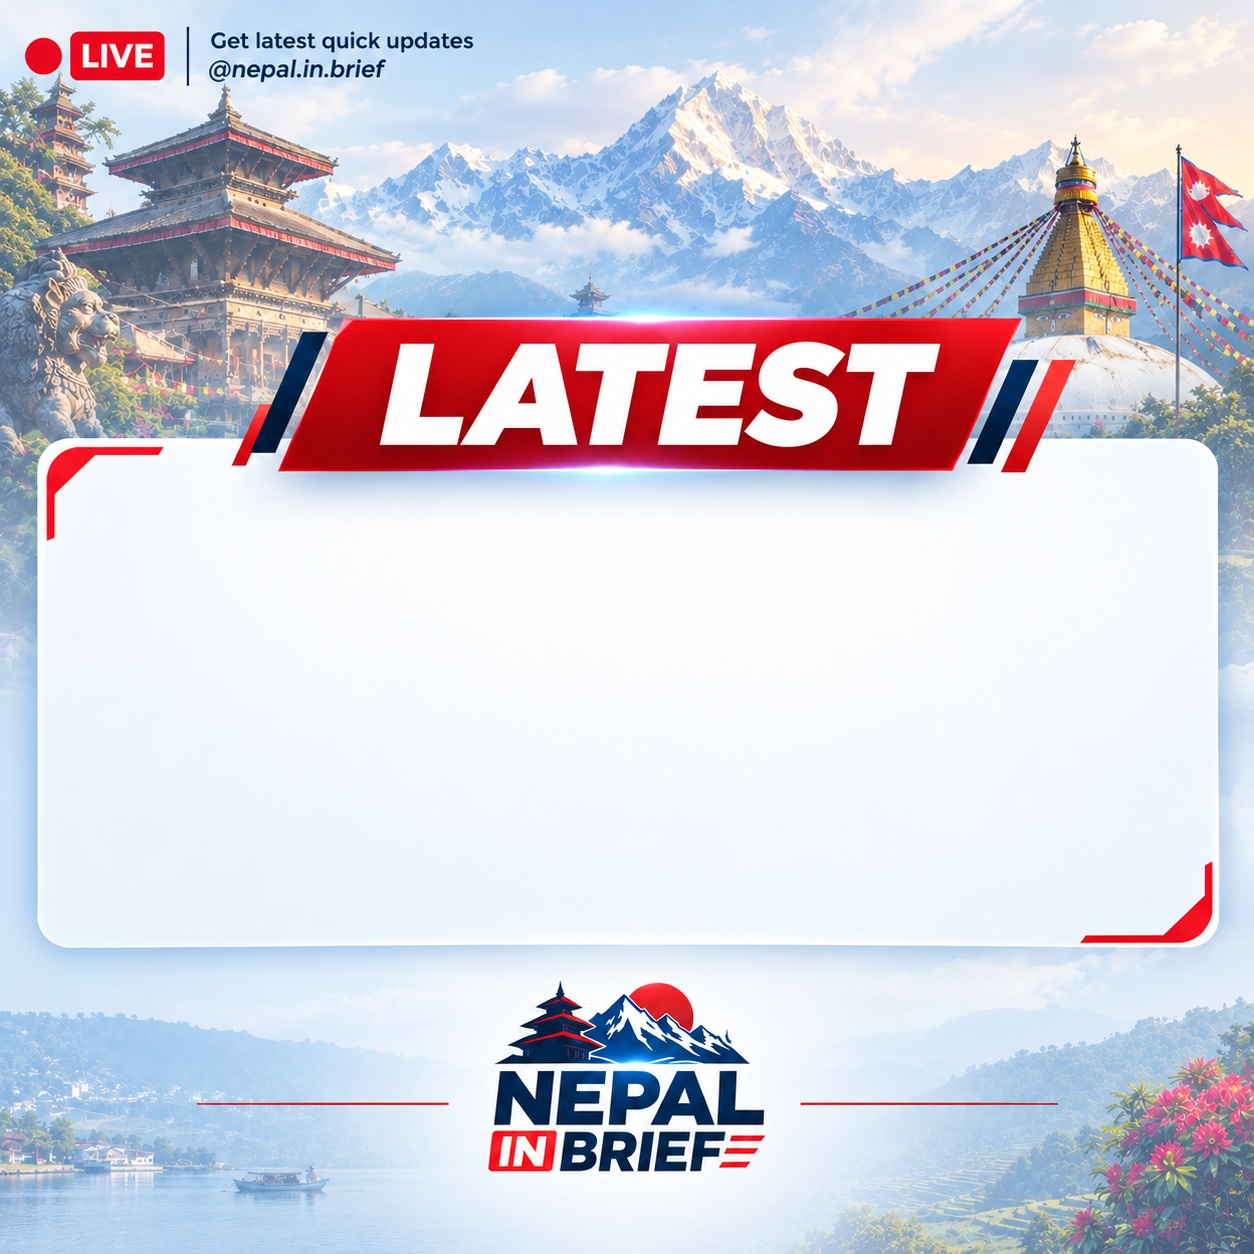
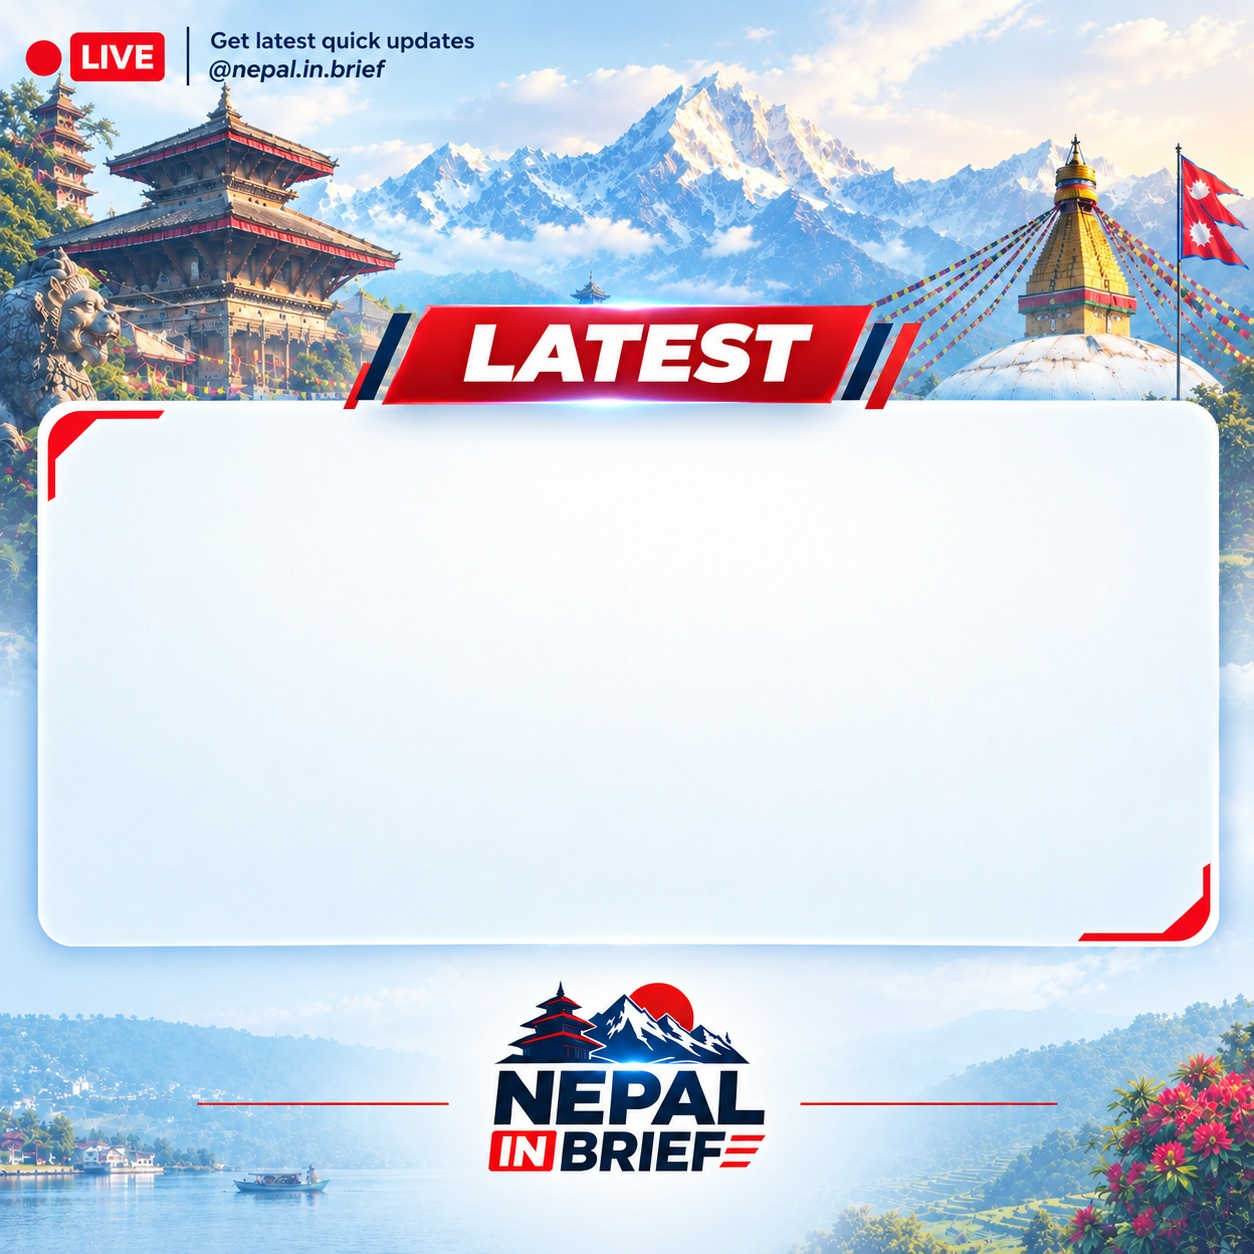
One bilingual post per story (EN above NE) on redesigned templates, dark/white alternate

diff --git a/bot.py b/bot.py
@@ -46,20 +46,19 @@ CRITICAL = re.compile(r"\b(breaking|earthquakes?|quakes?|tremors?|floods?|floode
                       r"blast|curfew|emergency|collapse\w*|defeat\w*|wins?)\b"
                       r"|भूकम्प|बाढी|पहिरो|हिमपहिरो|मृत्यु|मृतक|विस्फोट|कर्फ्यु|संकटकाल|हरायो|जित्यो", re.I)
 URGENT_MAX = 4          # headlines per urgent call
-STORIES_PER_RUN = 1     # normal stories per run (each = 1 EN + 1 NE post); runs every ~10 min
+STORIES_PER_RUN = 1     # normal stories per run (each = 1 bilingual post on FB and on IG); runs every ~10 min
 BREAKING_PER_RUN = 1    # breaking stories skip the pacing and go out immediately, up to this many
 NORMAL_GAP_MIN = 30     # at most one regular (non-breaking) story every 30 minutes
 NORMAL_MIN_IMPACT = 3   # regular stories need AI impact >= 3 (1-5 scale); lower ones are never posted
 RESUME_LEAD_MIN = 45    # when posting is paused, start collecting again this long before it resumes
 MAX_STORIES_PER_RUN = 1 # never more than this many stories in one run (no bursts: Meta flags them as spam)
-POST_GAP_S = 45         # seconds between the EN and NE post of a story
 BLOCK_COOLDOWN_H = 5    # Meta spam block (error 368): stop posting this long, doubled if it happens again within 48h
 BREAKING_PER_HOUR = 3   # hard cap so a busy news day can't turn into a flood of "breaking" posts
 BREAKING_MAX_AGE_MIN = 90  # only fresh stories can count as breaking
 ACTIVE_HOURS   = (4, 23)  # Nepal time: regular news only from 04:00 to 23:00, daily limits spread evenly
 BREAKING_24H   = True     # breaking news may still post at night (uses the IG reserve below)
-IG_BREAKING_RESERVE = 16  # IG posts (16 stories, English only) kept free for breaking news in every rolling 24h
-FB_BREAKING_RESERVE = 12  # FB posts (6 stories) kept free for breaking news
+IG_BREAKING_RESERVE = 8   # IG posts (stories) kept free for breaking news in every rolling 24h
+FB_BREAKING_RESERVE = 8   # FB posts (stories) kept free for breaking news
 # How much of the day's regular budget each hour gets (Nepal time). Follows when Nepali
 # audiences are online: morning scroll 6-9, lunch 12-2, and the big evening peak 6-10 PM.
 HOUR_WEIGHT = {4: 0.3, 5: 0.6, 6: 1.0, 7: 1.3, 8: 1.3, 9: 1.1, 10: 1.1, 11: 1.1, 12: 1.2,
@@ -85,9 +84,8 @@ BREAKING = re.compile(
     r"curfew|resign\w*|arrest\w*|protest\w*|clash\w*|shoot\w*|attack\w*|emergency|alert|"
     # sports results
     r"defeat\w*|wins?)\b", re.I)
-FB_DAILY_CAP   = 100    # FB posts per rolling 24h (no hard API cap, but 116 in a day got the Page spam-blocked)
+FB_DAILY_CAP   = 60     # FB posts (= stories, 1 bilingual post each) per rolling 24h. 116 in a day got the Page spam-blocked
 IG_DAILY_CAP   = 96     # IG API hard limit is 100 per rolling 24h
-IG_LANGS       = ("en",)  # Instagram gets the English version only (1 IG post per story)
 DUP_JACCARD    = 0.5    # word-overlap threshold for local duplicate detection
 INCLUDE_SUMMARY = False  # False: caption = headline + source + link only (no copied article text)
 HASHTAGS_EN    = "#Nepal #NepalNews #NepalInBrief"
@@ -140,31 +138,30 @@ FEEDS = [
 
 # ---- image ----
 HERE      = pathlib.Path(__file__).parent
-TEMPLATE  = HERE / "assets" / "template.jpg"   # branded template (1254x1254); headline goes in the panel
-BOX       = (100, 520, 1054, 400)              # headline area inside the panel: left, top, width, height
-STAMP_Y   = 482                                # centre line of the date pill, just under the LATEST ribbon
-TEXT_RGB  = (255, 255, 255)
-PHOTO_LAYOUT = "background"   # "background" (translucent photo behind the headline) or "off"
-PHOTO_OPACITY = 0.42          # how visible the photo is behind the headline (0 = hidden, 1 = full)
-PHOTO_TOP  = 515              # photo starts below the LATEST ribbon + date pill, fading in over PHOTO_FADE px
-PHOTO_FADE = 70
-TEXT_STROKE = 3               # thin black outline around the white headline
+TEXT_STROKE = 3               # outline around the headline (black on dark, white on the white template)
+PHOTO_LAYOUT = "background"   # "background" (translucent news photo behind the headlines) or "off"
+PHOTO_FADE = 60               # px over which the photo fades in below the date pill
 PHOTO_BLOCKLIST = set()       # outlet names whose photos must never be used, e.g. {"Kathmandu Post"}
-PANEL     = (49, 424, 1205, 954)   # the template's dark panel (where the photo goes)
 FONT_BOLD = [HERE / "assets" / "fonts" / "headline.ttf", "/usr/share/fonts/truetype/dejavu/DejaVuSans-Bold.ttf"]
 NAVY      = (14, 28, 64)
-# Per-language design: English posts use the dark template, Nepali posts the white one.
+THEME     = "alternate"       # "dark", "white", or "alternate" (dark and white take turns, story by story)
+HEADLINE_MAX_PX = 84          # biggest headline size; long headlines shrink to fit (same size for EN and NE)
+HEADLINE_LINE_H = 1.30        # line height as a multiple of the font size
+# One post per story: English headline on top, Nepali below. Panel = the template's box
+# (left, top, right, bottom); ribbon = bottom of the LATEST/BREAKING ribbon at the centre.
 STYLES = {
-    "en": {"template": TEMPLATE, "breaking_template": HERE / "assets" / "template_breaking.jpg", "panel": PANEL, "box": BOX, "photo_box": (100, 540, 1054, 370),
-           "stamp_y": STAMP_Y, "photo_top": PHOTO_TOP, "credit_at": (1150, 928),
-           "text": TEXT_RGB, "stroke": (0, 0, 0), "credit": (255, 255, 255, 128),
-           "dark_panel": True, "opacity": PHOTO_OPACITY},
-    "ne": {"template": HERE / "assets" / "template_ne.jpg",
-           "breaking_template": HERE / "assets" / "template_ne_breaking.jpg", "panel": (38, 440, 1218, 945),
-           "box": (100, 540, 1054, 380), "photo_box": (100, 555, 1054, 360),
-           "stamp_y": 500, "photo_top": 535, "credit_at": (1160, 922),
-           "text": NAVY, "stroke": (255, 255, 255), "credit": (14, 28, 64, 140),
-           "dark_panel": False, "opacity": 0.36},
+    "dark":  {"template": HERE / "assets" / "template.jpg",
+              "breaking_template": HERE / "assets" / "template_breaking.jpg",
+              "panel": (47, 352, 1208, 950), "ribbon": 360,
+              "breaking_panel": (47, 372, 1208, 972), "breaking_ribbon": 388,
+              "text": (255, 255, 255), "stroke": (0, 0, 0), "credit": (255, 255, 255, 128),
+              "dark_panel": True, "opacity": 0.42},
+    "white": {"template": HERE / "assets" / "template_ne.jpg",
+              "breaking_template": HERE / "assets" / "template_ne_breaking.jpg",
+              "panel": (38, 403, 1218, 942), "ribbon": 400,
+              "breaking_panel": (38, 408, 1218, 942), "breaking_ribbon": 411,
+              "text": NAVY, "stroke": (255, 255, 255), "credit": (14, 28, 64, 140),
+              "dark_panel": False, "opacity": 0.36},
 }
 # ==========================================
 
@@ -477,15 +474,14 @@ def date_stamp(ts):
     return f"{en}   |   {ne.translate(NE_DIGITS)}"
 
 
-def place_photo(img, photo, st):
-    """Translucent news photo behind the headline. The top of the panel (LATEST ribbon + date pill)
+def place_photo(img, photo, st, panel_box, photo_top):
+    """Translucent news photo behind the headlines. The top of the panel (ribbon + date pill)
     stays clean; the photo fades in below it. Border and red corners stay on top."""
-    panel_box = st["panel"]
     size = (panel_box[2] - panel_box[0], panel_box[3] - panel_box[1])
     ph = ImageOps.fit(photo, size).filter(ImageFilter.GaussianBlur(1.2))
     panel = img.crop(panel_box)
     # vertical alpha: 0 above photo_top, fading up to PHOTO_OPACITY
-    top = st["photo_top"] - panel_box[1]
+    top = photo_top - panel_box[1]
     col = [0 if y < top else int(255 * st["opacity"] * min(1, (y - top) / PHOTO_FADE)) for y in range(size[1])]
     alpha = Image.new("L", (1, size[1]))
     alpha.putdata(col)
@@ -504,45 +500,79 @@ def place_photo(img, photo, st):
     ImageDraw.Draw(shape).rounded_rectangle([4, 0, size[0] - 5, size[1] - 5], radius=26, fill=255)
     alpha = Image.composite(alpha, Image.new("L", size, 0), shape)
     img.paste(Image.composite(ph, panel, alpha), panel_box[:2])
-    return st["photo_box"], st["credit_at"]
 
 
-def render(story, lang):
-    """Headline in the template panel, optional news photo, date pill. Source + link go in the caption.
-    English uses the dark template, Nepali the white one (see STYLES)."""
+def balanced_wrap(draw, text, fnt, width):
+    """Same number of lines as a greedy wrap, but evenly filled (no lone word on the last line)."""
+    n = len(wrap(draw, text, fnt, width))
+    lo, hi = width // 2, width
+    while lo < hi:
+        mid = (lo + hi) // 2
+        if len(wrap(draw, text, fnt, mid)) <= n:
+            hi = mid
+        else:
+            lo = mid + 1
+    return wrap(draw, text, fnt, lo)
+
+
+def render(story, theme="dark"):
+    """One image per story: English headline on top, Nepali below, same size, optional translucent
+    news photo behind, date pill under the ribbon. Source + link go in the caption."""
     OUT.mkdir(exist_ok=True)
-    st = STYLES[lang]
-    tpl = st["breaking_template"] if story.get("_breaking") and st["breaking_template"].exists() else st["template"]
-    img = Image.open(tpl).convert("RGB")   # BREAKING ribbon for breaking news, LATEST otherwise
-    box, credit_at = st["box"], None
+    st = STYLES[theme]
+    brk = bool(story.get("_breaking")) and st["breaking_template"].exists()
+    img = Image.open(st["breaking_template"] if brk else st["template"]).convert("RGB")
+    panel = st["breaking_panel"] if brk else st["panel"]
+    l, top, r, b = panel
+    pill_y = (st["breaking_ribbon"] if brk else st["ribbon"]) + 40
+    x, w = l + 55, (r - l) - 110                 # side padding
+    y0, y1 = pill_y + 21 + 34, b - 40            # below the date pill, above the panel bottom
+    gap = 50                                     # space between the two languages (divider sits here)
+
+    credit = False
     photo = story.get("_photo")
     if photo is not None and PHOTO_LAYOUT != "off":
-        box, credit_at = place_photo(img, photo, st)
+        place_photo(img, photo, st, panel, pill_y + 30)
+        credit = True
     d = ImageDraw.Draw(img)
-    x, y, w, h = box
-    f, lines, lh = fit_text(d, story[lang], box, FONT_BOLD)
-    ty = y + (h - lh * len(lines)) // 2
-    for i, line in enumerate(lines):
-        lx = x + (w - d.textlength(line, font=f)) // 2
-        d.text((lx, ty + i * lh), line, font=f, fill=st["text"],
-               stroke_width=TEXT_STROKE, stroke_fill=st["stroke"])
 
-    if credit_at:  # small, semi-transparent photo credit
+    def height(size):  # both languages share the space; same font size for both
+        f = font(FONT_BOLD, size)
+        blocks = [wrap(d, story[k], f, w) for k in ("en", "ne")]
+        if any(d.textlength(line, font=f) > w for bl in blocks for line in bl):
+            return 10 ** 6
+        return sum(len(bl) for bl in blocks) * int(size * HEADLINE_LINE_H) + gap
+
+    size = HEADLINE_MAX_PX
+    while size > 40 and height(size) > y1 - y0:
+        size -= 2
+    f, lh = font(FONT_BOLD, size), int(size * HEADLINE_LINE_H)
+    blocks = [balanced_wrap(d, story[k], f, w) for k in ("en", "ne")]
+    ty = y0 + (y1 - y0 - (sum(len(bl) for bl in blocks) * lh + gap)) // 2
+    for i, bl in enumerate(blocks):
+        for line in bl:
+            lx = x + (w - d.textlength(line, font=f)) // 2
+            d.text((lx, ty), line, font=f, fill=st["text"], stroke_width=TEXT_STROKE, stroke_fill=st["stroke"])
+            ty += lh
+        if i == 0:  # small red divider between English and Nepali
+            my = ty + gap // 2 - lh * 0.08
+            d.line([(627 - 190, my), (627 + 190, my)], fill=(220, 30, 45), width=4)
+            ty += gap
+
+    if credit:  # small, semi-transparent photo credit
         layer = Image.new("RGBA", img.size, (0, 0, 0, 0))
-        ImageDraw.Draw(layer).text(credit_at, f"Photo: {story['source']}", font=font(FONT_BOLD, 17),
+        ImageDraw.Draw(layer).text((r - 50, b - 22), f"Photo: {story['source']}", font=font(FONT_BOLD, 17),
                                    fill=st["credit"], anchor="rs")
         img = Image.alpha_composite(img.convert("RGBA"), layer).convert("RGB")
         d = ImageDraw.Draw(img)
 
-    # date pill under the LATEST ribbon (same post time on the EN and NE image)
     stamp = date_stamp(story.get("post_ts") or time.time())
     sf = font(FONT_BOLD, 28)
-    sy = st["stamp_y"]
     cx, sw = 627, d.textlength(stamp, font=sf)
-    d.rounded_rectangle([cx - sw / 2 - 24, sy - 21, cx + sw / 2 + 24, sy + 21],
+    d.rounded_rectangle([cx - sw / 2 - 24, pill_y - 21, cx + sw / 2 + 24, pill_y + 21],
                         radius=21, fill=(8, 14, 32), outline=(220, 30, 45), width=2)
-    d.text((cx, sy), stamp, font=sf, fill=(255, 255, 255), anchor="mm")
-    path = OUT / f"{int(time.time()*1000)}_{lang}.jpg"
+    d.text((cx, pill_y), stamp, font=sf, fill=(255, 255, 255), anchor="mm")
+    path = OUT / f"{int(time.time()*1000)}_{theme}.jpg"
     img.save(path, "JPEG", quality=92, optimize=True)  # IG accepts JPEG only
     return path
 
@@ -580,16 +610,13 @@ def post_instagram(img_url, text):
     return graph("POST", f"{ig}/media_publish", creation_id=cid)["id"]
 
 
-def captions(s, lang):
-    summ = s["summary"] if INCLUDE_SUMMARY and s["lang"] == lang and s["summary"] else ""
-    body = f"{s[lang]}\n\n{summ + chr(10) + chr(10) if summ else ''}"
-    if lang == "ne":
-        fb = f"{body}पूरा समाचार: {s['link']}\nस्रोत: {s['source']}\n\n{HASHTAGS_NE}"
-        ig = f"{body}स्रोत: {s['source']}\nपूरा समाचार: {s['link']}\n\n{HASHTAGS_NE}"
-    else:
-        fb = f"{body}Read more: {s['link']}\nSource: {s['source']}\n\n{HASHTAGS_EN}"
-        ig = f"{body}Source: {s['source']}\nFull story: {s['link']}\n\n{HASHTAGS_EN}"
-    return fb, ig
+def captions(s):
+    """One caption with both languages (same text on FB and IG)."""
+    tags = HASHTAGS_EN + " " + " ".join(t for t in HASHTAGS_NE.split() if t not in HASHTAGS_EN.split())
+    text = (f"{s['en']}\n{s['ne']}\n\n"
+            f"Source / स्रोत: {s['source']}\n"
+            f"Read more / पूरा समाचार: {s['link']}\n\n{tags}")
+    return text, text
 
 
 def ig_quota():
@@ -629,7 +656,7 @@ def main():
         def fb24(t):
             return sum(p.get("n_fb", 0) for p in posted if t - 86400 < p["ts"] <= now)
         cap_free = next((now + m * 300 for m in range(0, 24 * 12 + 1)
-                         if fb24(now + m * 300) + 2 <= FB_DAILY_CAP), now)
+                         if fb24(now + m * 300) + 1 <= FB_DAILY_CAP), now)
         resume = max(cap_free, state.get("fb_block_until", 0))
         if resume - now > RESUME_LEAD_MIN * 60:
             why = "Meta spam-block cooldown" if resume == state.get("fb_block_until") else \
@@ -755,13 +782,13 @@ def main():
     since = day_start - (24 - (end_h - start_h)) * 3600
     fb_today = sum(p.get("n_fb", 0) for p in posted if p["ts"] >= since)
     ig_today = sum(p.get("n_ig", 0) for p in posted if p["ts"] >= since)
-    fb_budget = (FB_DAILY_CAP - FB_BREAKING_RESERVE) * frac + 2   # posts allowed so far (+1 story slack)
-    ig_budget = (IG_DAILY_CAP - IG_BREAKING_RESERVE) * frac + len(IG_LANGS)
+    fb_budget = (FB_DAILY_CAP - FB_BREAKING_RESERVE) * frac + 1   # posts allowed so far (+1 story slack)
+    ig_budget = (IG_DAILY_CAP - IG_BREAKING_RESERVE) * frac + 1
     last_normal = max((p["ts"] for p in posted if p.get("n_fb") and not p.get("brk")), default=0)
     gap_ok = time.time() - last_normal >= (NORMAL_GAP_MIN - 1) * 60  # -1 min: runs drift by a few seconds
-    normal_ok = (active and gap_ok and fb_today + 2 <= fb_budget
-                 and fb_24 + 2 <= FB_DAILY_CAP - FB_BREAKING_RESERVE)
-    ig_normal_ok = ig_today + len(IG_LANGS) <= ig_budget and ig_24 + len(IG_LANGS) <= IG_DAILY_CAP - IG_BREAKING_RESERVE
+    normal_ok = (active and gap_ok and fb_today + 1 <= fb_budget
+                 and fb_24 + 1 <= FB_DAILY_CAP - FB_BREAKING_RESERVE)
+    ig_normal_ok = ig_today + 1 <= ig_budget and ig_24 + 1 <= IG_DAILY_CAP - IG_BREAKING_RESERVE
     wait = max(0, (last_normal + NORMAL_GAP_MIN * 60 - time.time()) / 60)
     log(f"next regular story in {wait:.0f} min | "
         f"impact in queue: " + ", ".join(f"{k}:{sum(1 for q in queue if impact(q) == k)}" for k in (5, 4, 3, 2, 1)))
@@ -779,8 +806,8 @@ def main():
             q["_photo"] = load_photo(q)
             q["_breaking"] = is_breaking(q)
             log(f"[PREVIEW] {q['source']}{' [BREAKING]' if q['_breaking'] else ''}: photo {'found' if q['_photo'] is not None else 'NOT found'} | {q['en']}")
-            for lang in ("en", "ne"):
-                log(f"   {lang}: {render(q, lang)}")
+            for theme in ("dark", "white"):
+                log(f"   {theme}: {render(q, theme)}")
         return
 
     page_links = set() if DRY else recent_page_links()
@@ -788,7 +815,7 @@ def main():
     if q is not None:
         log(f"IG quota from Meta: {q}/100 used in last 24h (bot's own count {ig_24})")
         ig_24 = max(ig_24, q)
-        ig_normal_ok = ig_normal_ok and ig_24 + len(IG_LANGS) <= IG_DAILY_CAP - IG_BREAKING_RESERVE
+        ig_normal_ok = ig_normal_ok and ig_24 + 1 <= IG_DAILY_CAP - IG_BREAKING_RESERVE
     n_breaking = n_normal = 0
     blocks = [b for b in state.get("fb_blocks", []) if b > now - 48 * 3600]
     block_until = state.get("fb_block_until", 0)
@@ -798,7 +825,7 @@ def main():
         save(state, seen, queue, posted)
         return
     fb_blocked = False
-    while queue and not fb_blocked and n_breaking + n_normal < MAX_STORIES_PER_RUN and fb_24 + 2 <= FB_DAILY_CAP:
+    while queue and not fb_blocked and n_breaking + n_normal < MAX_STORIES_PER_RUN and fb_24 + 1 <= FB_DAILY_CAP:
         br = [q for q in queue if is_breaking(q)]
         if (br and (active or BREAKING_24H) and n_breaking < BREAKING_PER_RUN
                 and brk_hour + n_breaking < BREAKING_PER_HOUR):
@@ -842,26 +869,26 @@ def main():
         s["post_ts"] = time.time()
         s["_photo"] = load_photo(s)
         s["_breaking"] = breaking
-        use_ig = breaking or ig_normal_ok  # decided once per story
+        use_ig = breaking or ig_normal_ok
         if use_ig:
-            n = len(IG_LANGS)
-            ig_today += n
-            ig_normal_ok = ig_today + n <= ig_budget and ig_24 + 2 * n <= IG_DAILY_CAP - IG_BREAKING_RESERVE
-        for lang in ("en", "ne"):
-            img = render(s, lang)
-            fb_text, ig_text = captions(s, lang)
-            if DRY:
-                log(f"[DRY] {img}\n--- FB {lang} ---\n{fb_text}\n--- IG {lang} ---\n{ig_text}\n")
-                continue
+            ig_today += 1
+            ig_normal_ok = ig_today + 1 <= ig_budget and ig_24 + 2 <= IG_DAILY_CAP - IG_BREAKING_RESERVE
+        # dark and white templates take turns (THEME = "alternate"), or a fixed one
+        theme = THEME if THEME in STYLES else ("dark", "white")[sum(1 for p in posted if p.get("n_fb")) % 2]
+        img = render(s, theme)
+        fb_text, ig_text = captions(s)
+        if DRY:
+            log(f"[DRY] {img}\n--- caption ---\n{fb_text}\n")
+        else:
             try:
                 pid, url = post_facebook(img, fb_text)
                 rec["n_fb"] += 1; fb_24 += 1
-                log(f"FB {lang} ok {pid}{' [BREAKING]' if breaking else ''} impact {s.get('imp')}")
-                if use_ig and lang in IG_LANGS and ig_24 + 1 <= IG_DAILY_CAP - (0 if breaking else IG_BREAKING_RESERVE):
-                    log(f"IG {lang} ok {post_instagram(url, ig_text)}")
+                log(f"FB ok {pid} ({theme}){' [BREAKING]' if breaking else ''} impact {s.get('imp')}")
+                if use_ig and ig_24 + 1 <= IG_DAILY_CAP - (0 if breaking else IG_BREAKING_RESERVE):
+                    log(f"IG ok {post_instagram(url, ig_text)}")
                     rec["n_ig"] += 1; ig_24 += 1
             except Exception as ex:
-                log(f"POST FAIL {lang}:\n" + traceback.format_exc())
+                log("POST FAIL:\n" + traceback.format_exc())
                 if "'code': 368" in str(ex):  # Meta rate/spam block: stop and back off, don't keep hammering
                     hours = BLOCK_COOLDOWN_H * 2 ** len(blocks)
                     blocks.append(time.time())
@@ -872,9 +899,7 @@ def main():
                     if rec["n_fb"] == 0 and rec in posted:  # nothing went out: keep the story for later
                         posted.remove(rec)
                         queue.append(s)
-                    break
             save(state, seen, queue, posted)
-            time.sleep(POST_GAP_S)
         s.pop("_photo", None)
         s.pop("_breaking", None)
     save(state, seen, queue, posted)
